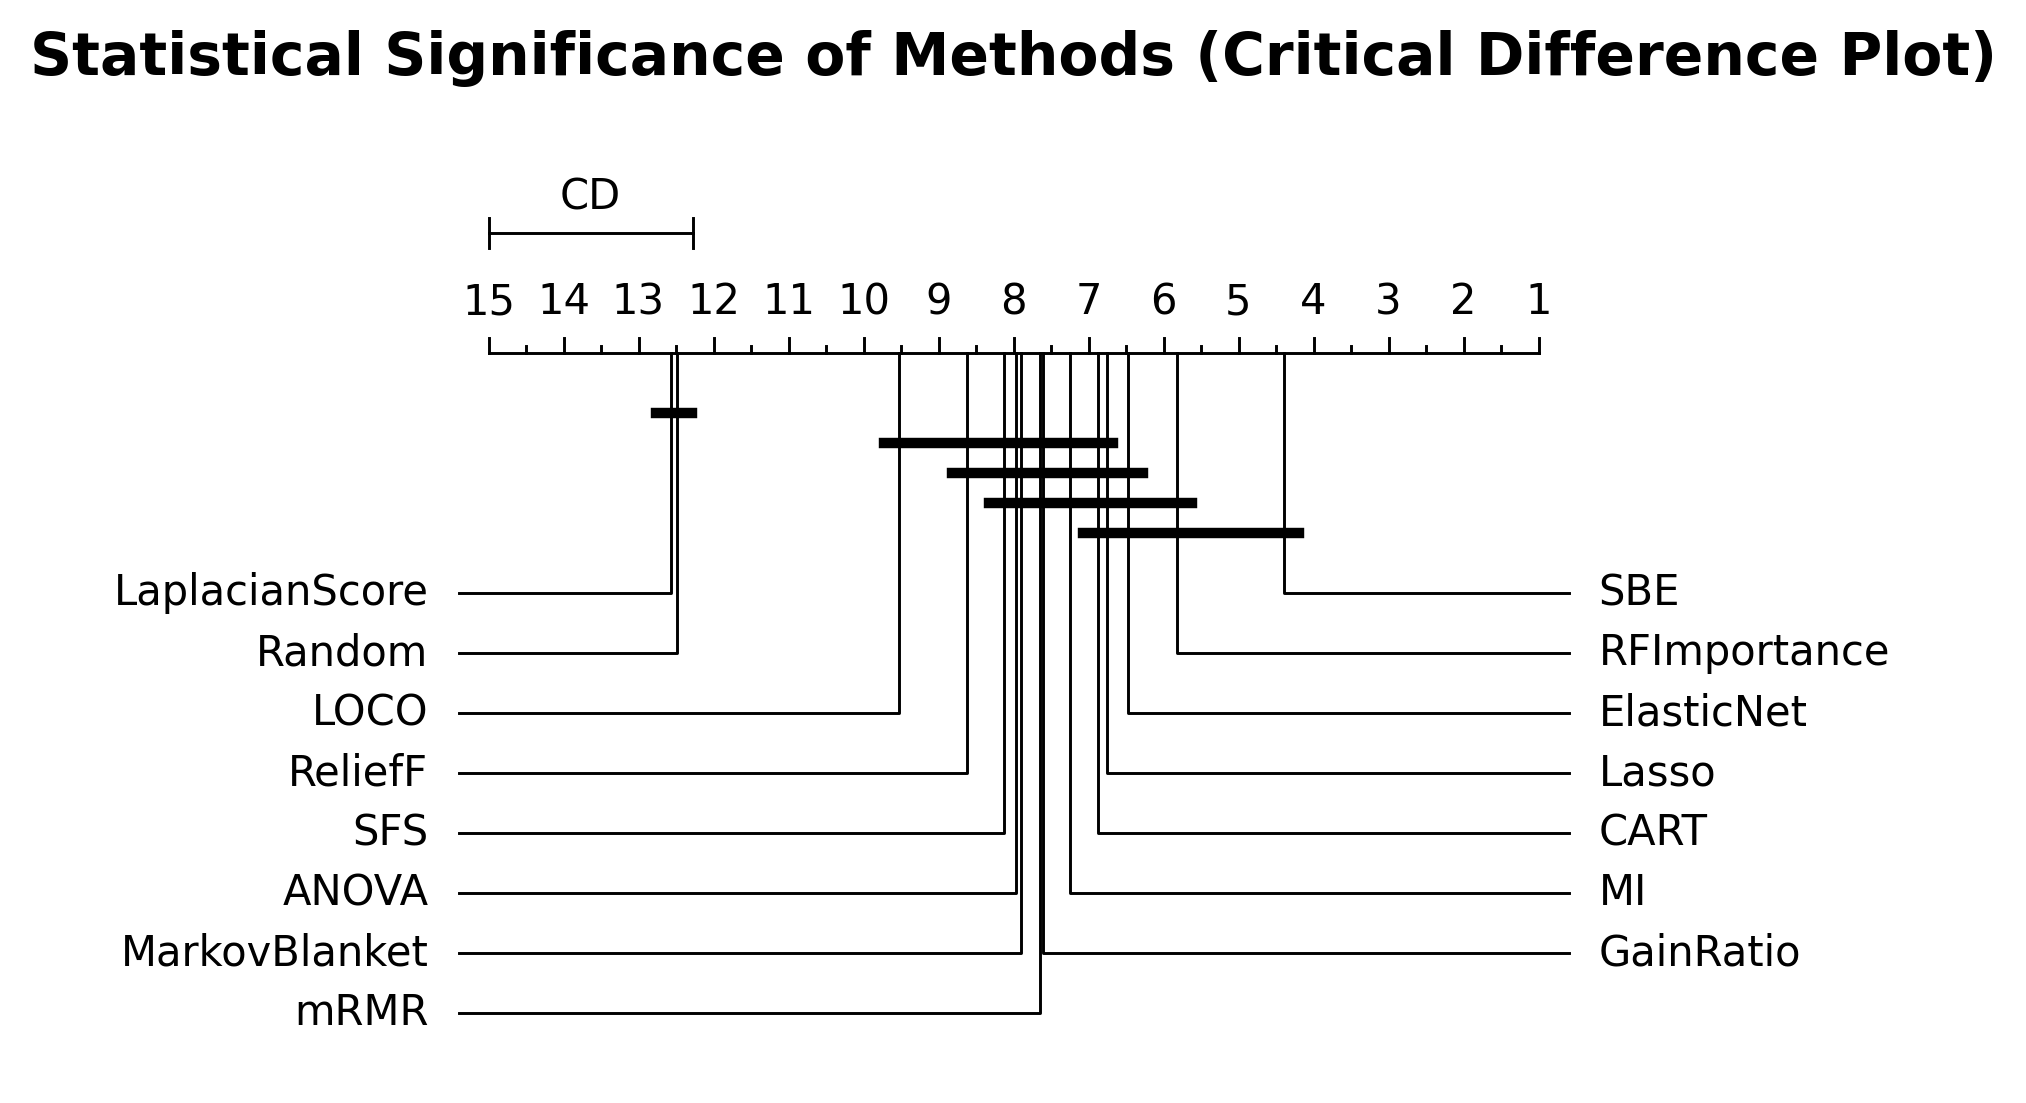
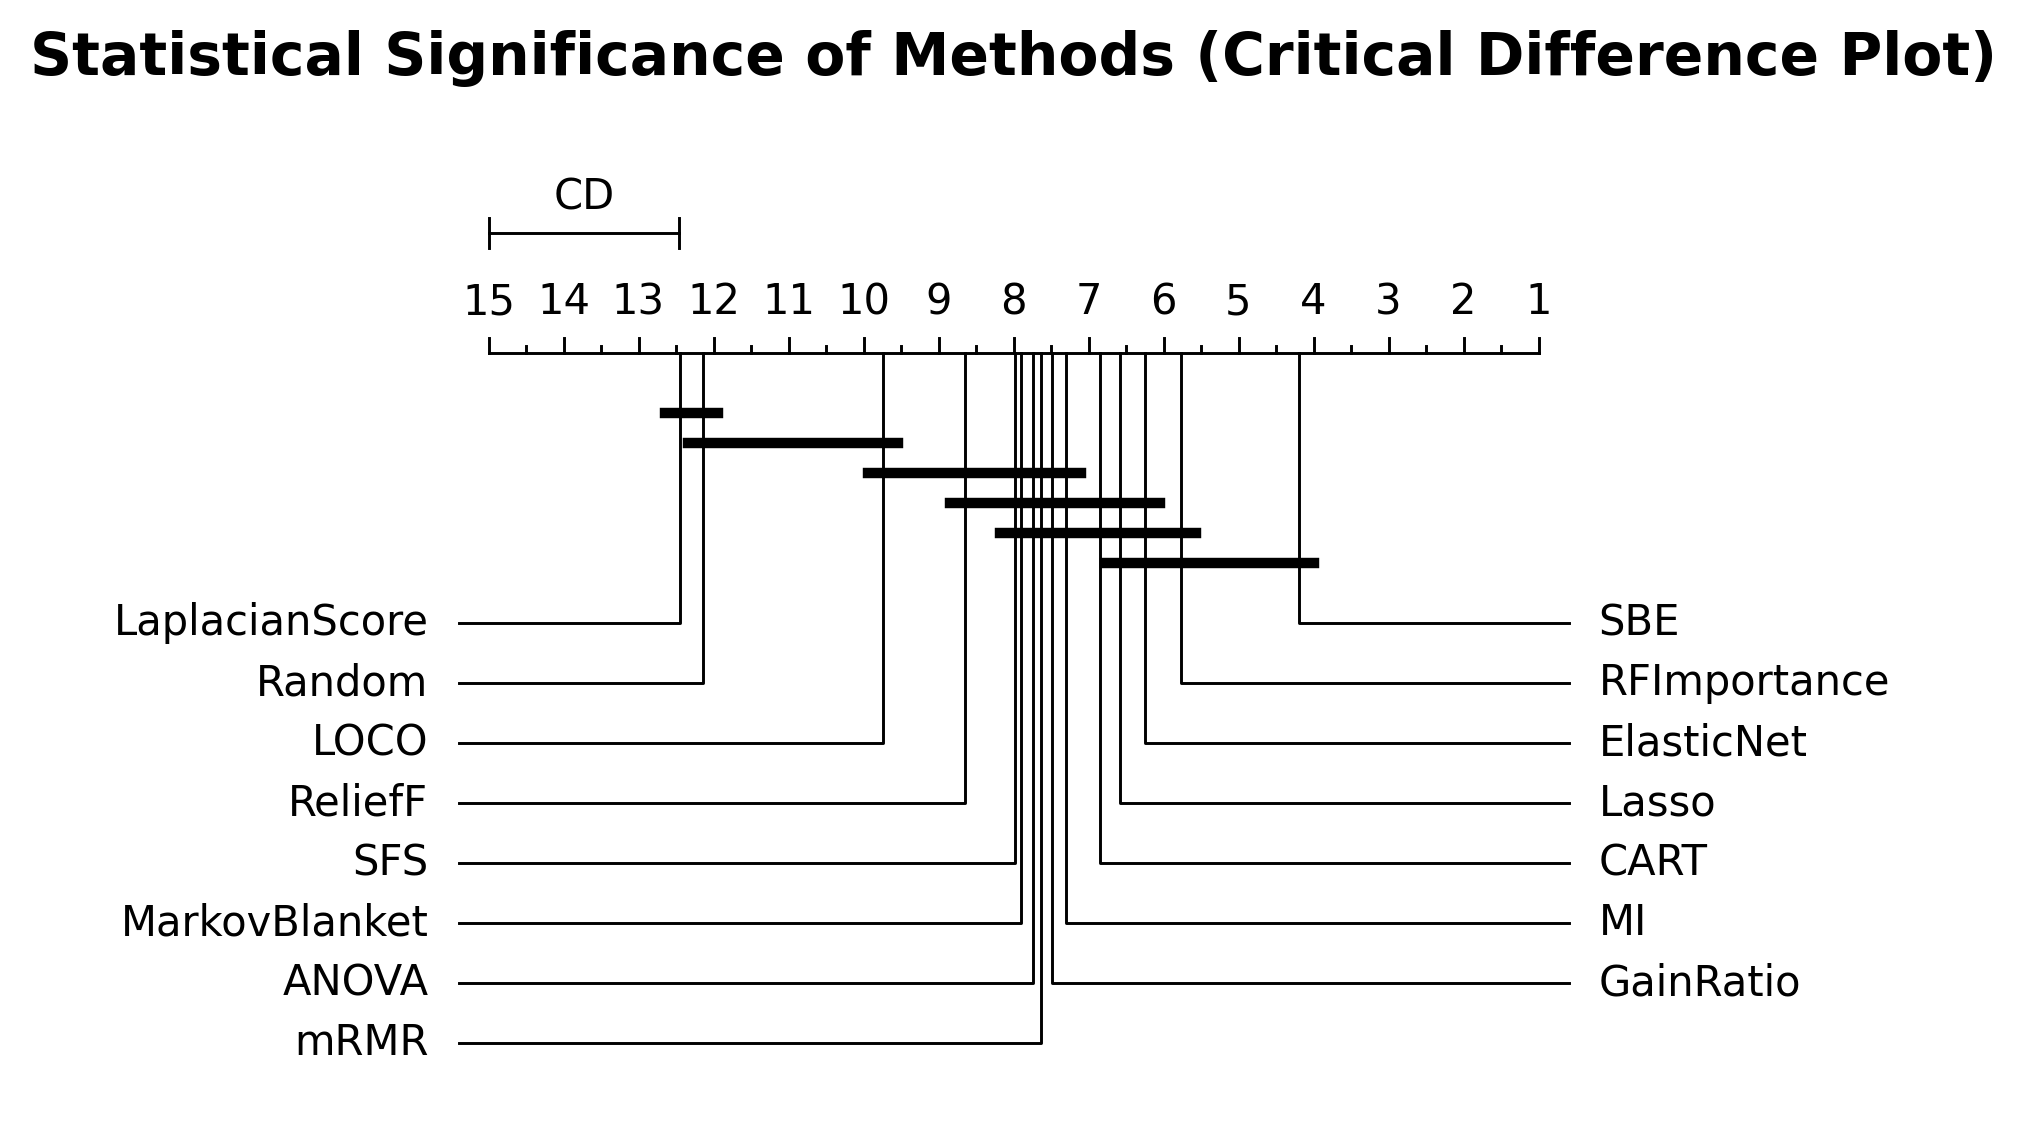
maint: beautify

diff --git a/plotting_code/performance/critical_difference_v1.py b/plotting_code/performance/critical_difference_v1.py
@@ -6,6 +6,9 @@ from matplotlib import pyplot as plt
 # IMPORTANT: pip install autorank
 from autorank import autorank, plot_stats, create_report
 
+from utils.average import average_per_dataset_and_method
+from utils.beautify import beautify_names, remove_jmi, add_model_name
+
 FILE_NAME = "results_per_split.csv"
 PLOT_NAME = "critical_difference_v1.png"
 PLOT_TITLE = "Statistical Significance of Methods (Critical Difference Plot)"
@@ -16,44 +19,19 @@ def prepare_data_for_autorank(df):
     required by Autorank: Rows = Datasets, Columns = Feature Selection Methods.
     """
 
-    # --- DATA CLEANING ---
-    # 1. Filter out JMIFeatureSelector entirely
-    df = df[df["feature_selection_method"] != "JMIFeatureSelector"].copy()
+    df = beautify_names(df)
+    df = remove_jmi(df)
+    df = add_model_name(df)
 
-    # 2. Strip "FeatureSelector" from all remaining method names
-    df["feature_selection_method"] = df["feature_selection_method"].str.replace("FeatureSelector", "")
+    df = average_per_dataset_and_method(df)
 
-    # 3. Rename "Accuracy" to "LOCO"
-    df["feature_selection_method"] = df["feature_selection_method"].replace({"Accuracy": "LOCO"})
-    df["feature_selection_method"] = df["feature_selection_method"].replace({"SequentialBackwardElimination": "SBE"})
-    df["feature_selection_method"] = df["feature_selection_method"].replace({"SequentialForwardSelection": "SFS"})
-
-    # ---------------------
-
-    def extract_model_cls(model_details):
-        if pd.isna(model_details):
-            return "Unknown"
-        details_dict = ast.literal_eval(str(model_details))
-        return details_dict.get('model_cls', "Unknown")
-
-    df["model_cls"] = df["model_details"].apply(extract_model_cls)
-
-    # 3. AVERAGE PHASE
-    df_collapsed = df.groupby(
-        ["tid", "metric", "feature_selection_method"]
-    )["metric_error"].mean().reset_index()
-
-    df_wide = df_collapsed.pivot(
+    df = df.pivot(
         index="tid",
         columns="feature_selection_method",
         values="metric_error"
     )
 
-    # Drop any datasets/rows that don't have results for ALL methods
-    # Autorank requires paired data (every method must be evaluated on the same datasets)
-    df_wide = df_wide.dropna()
-
-    return df_wide
+    return df
 
 
 def plot_autorank(df):
